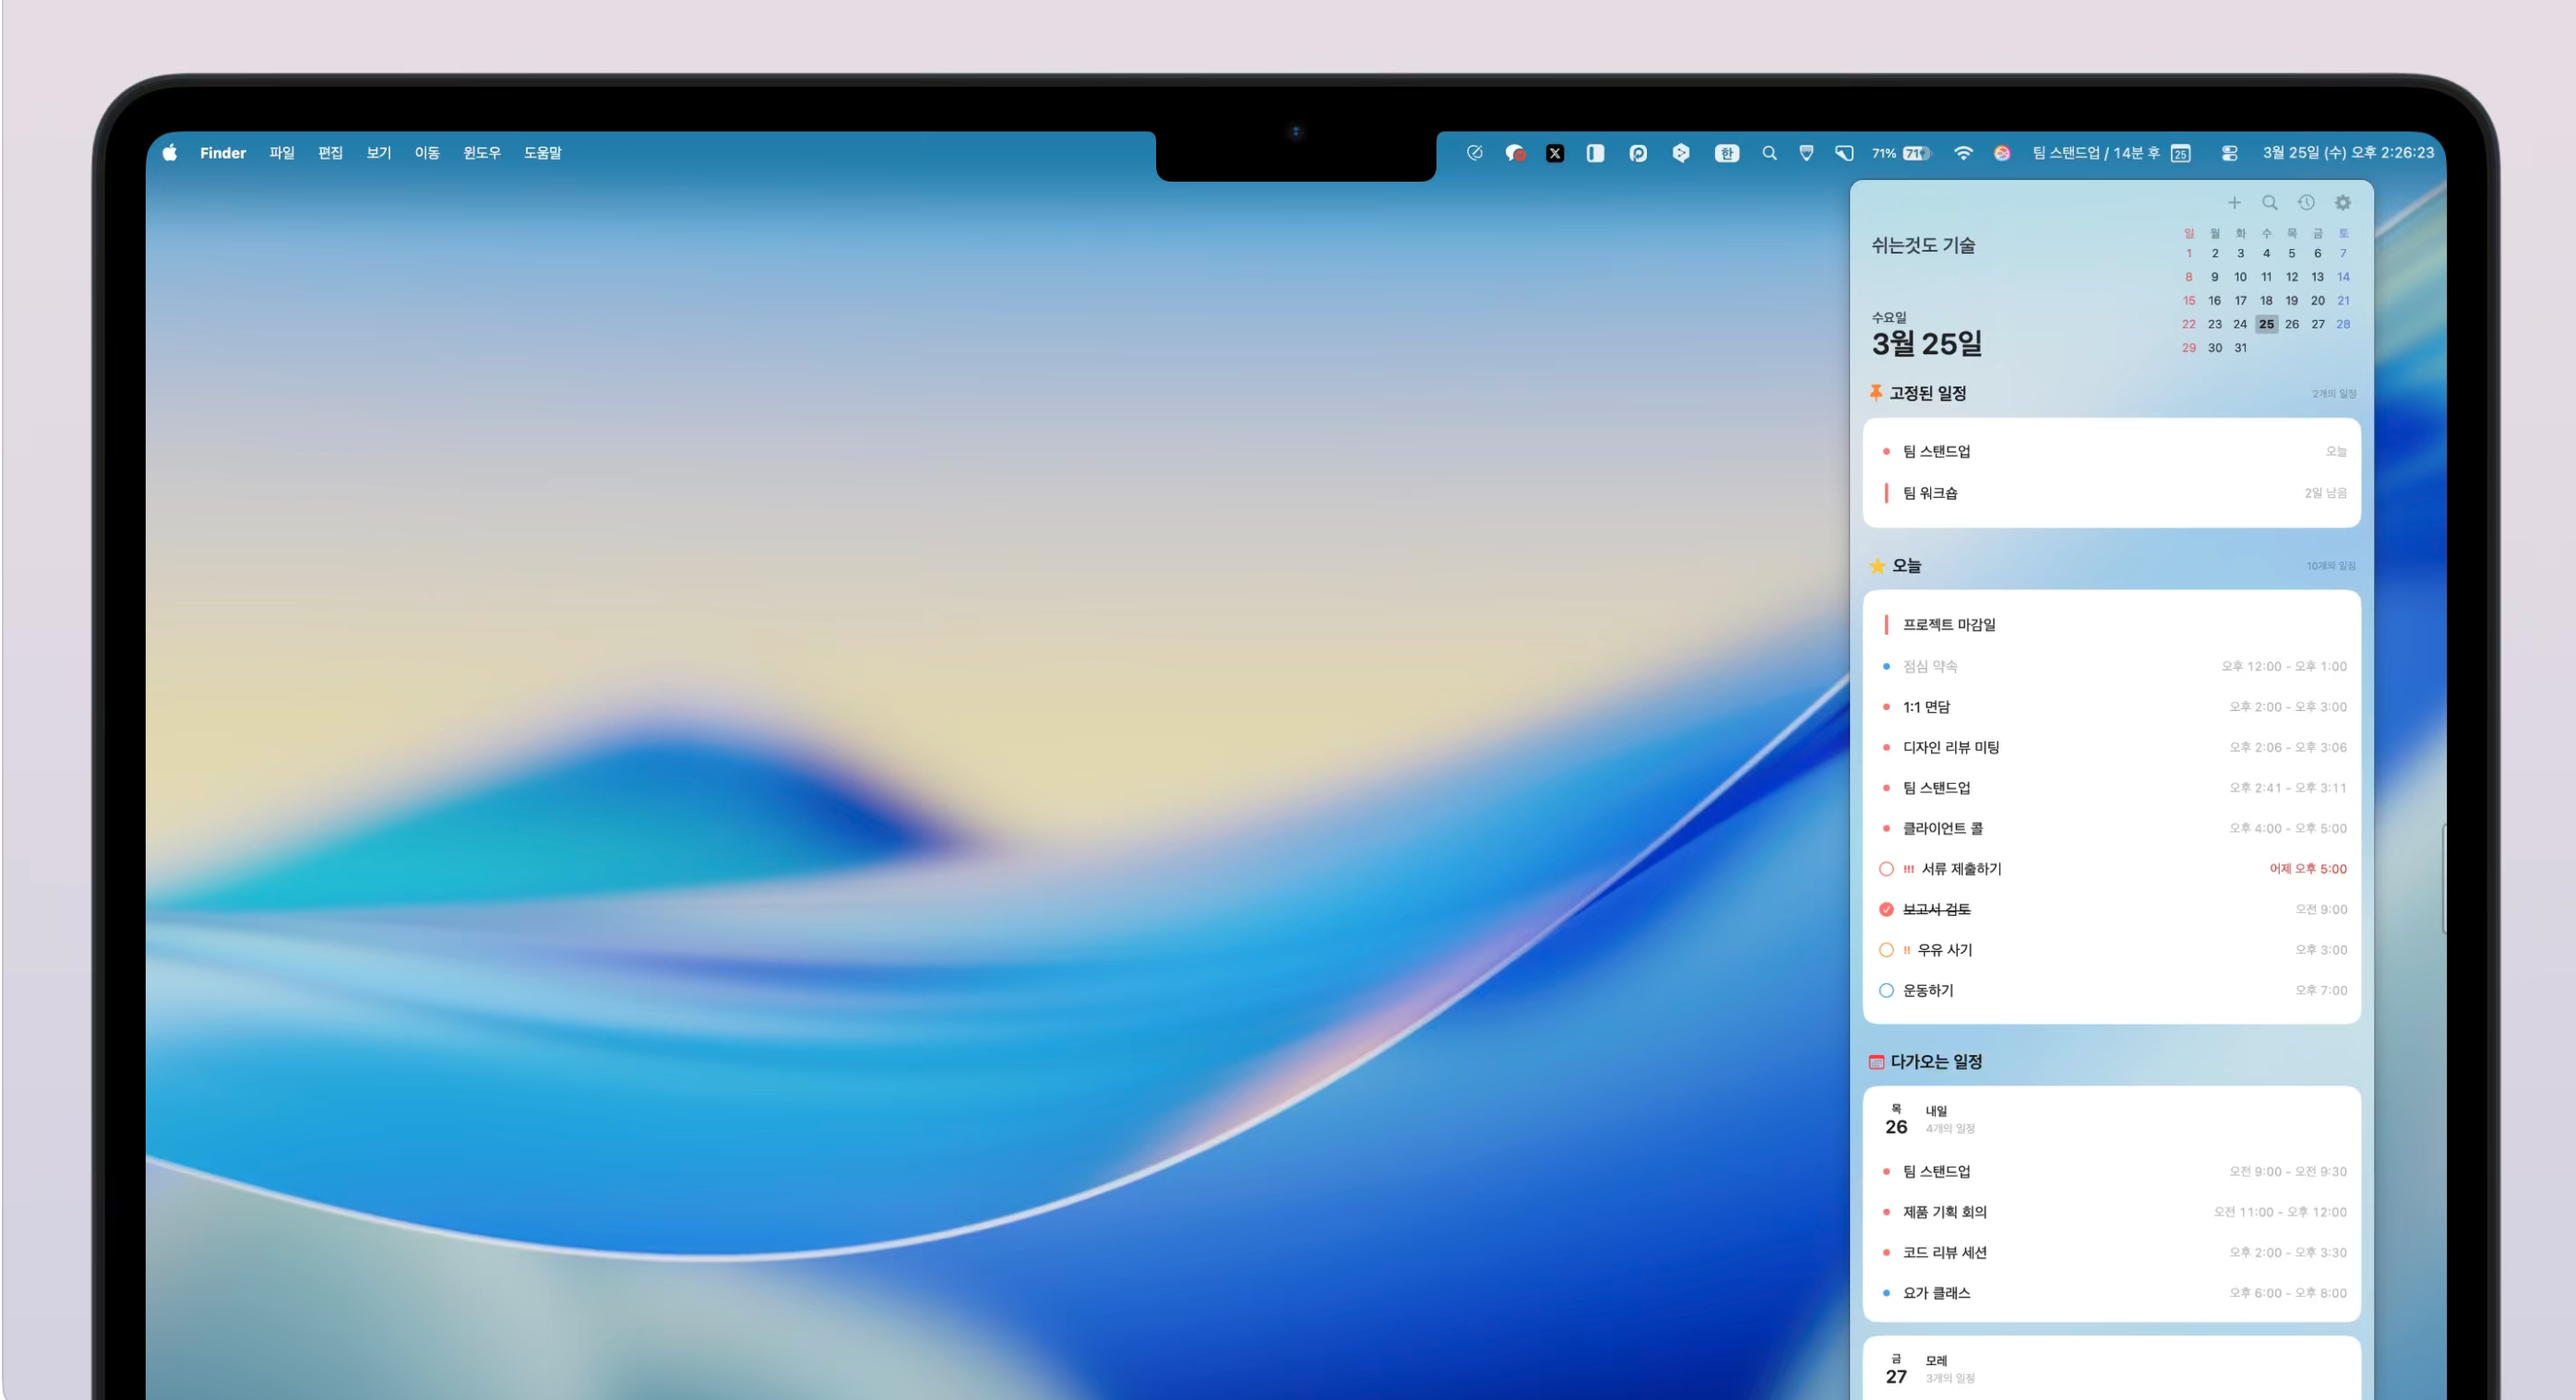
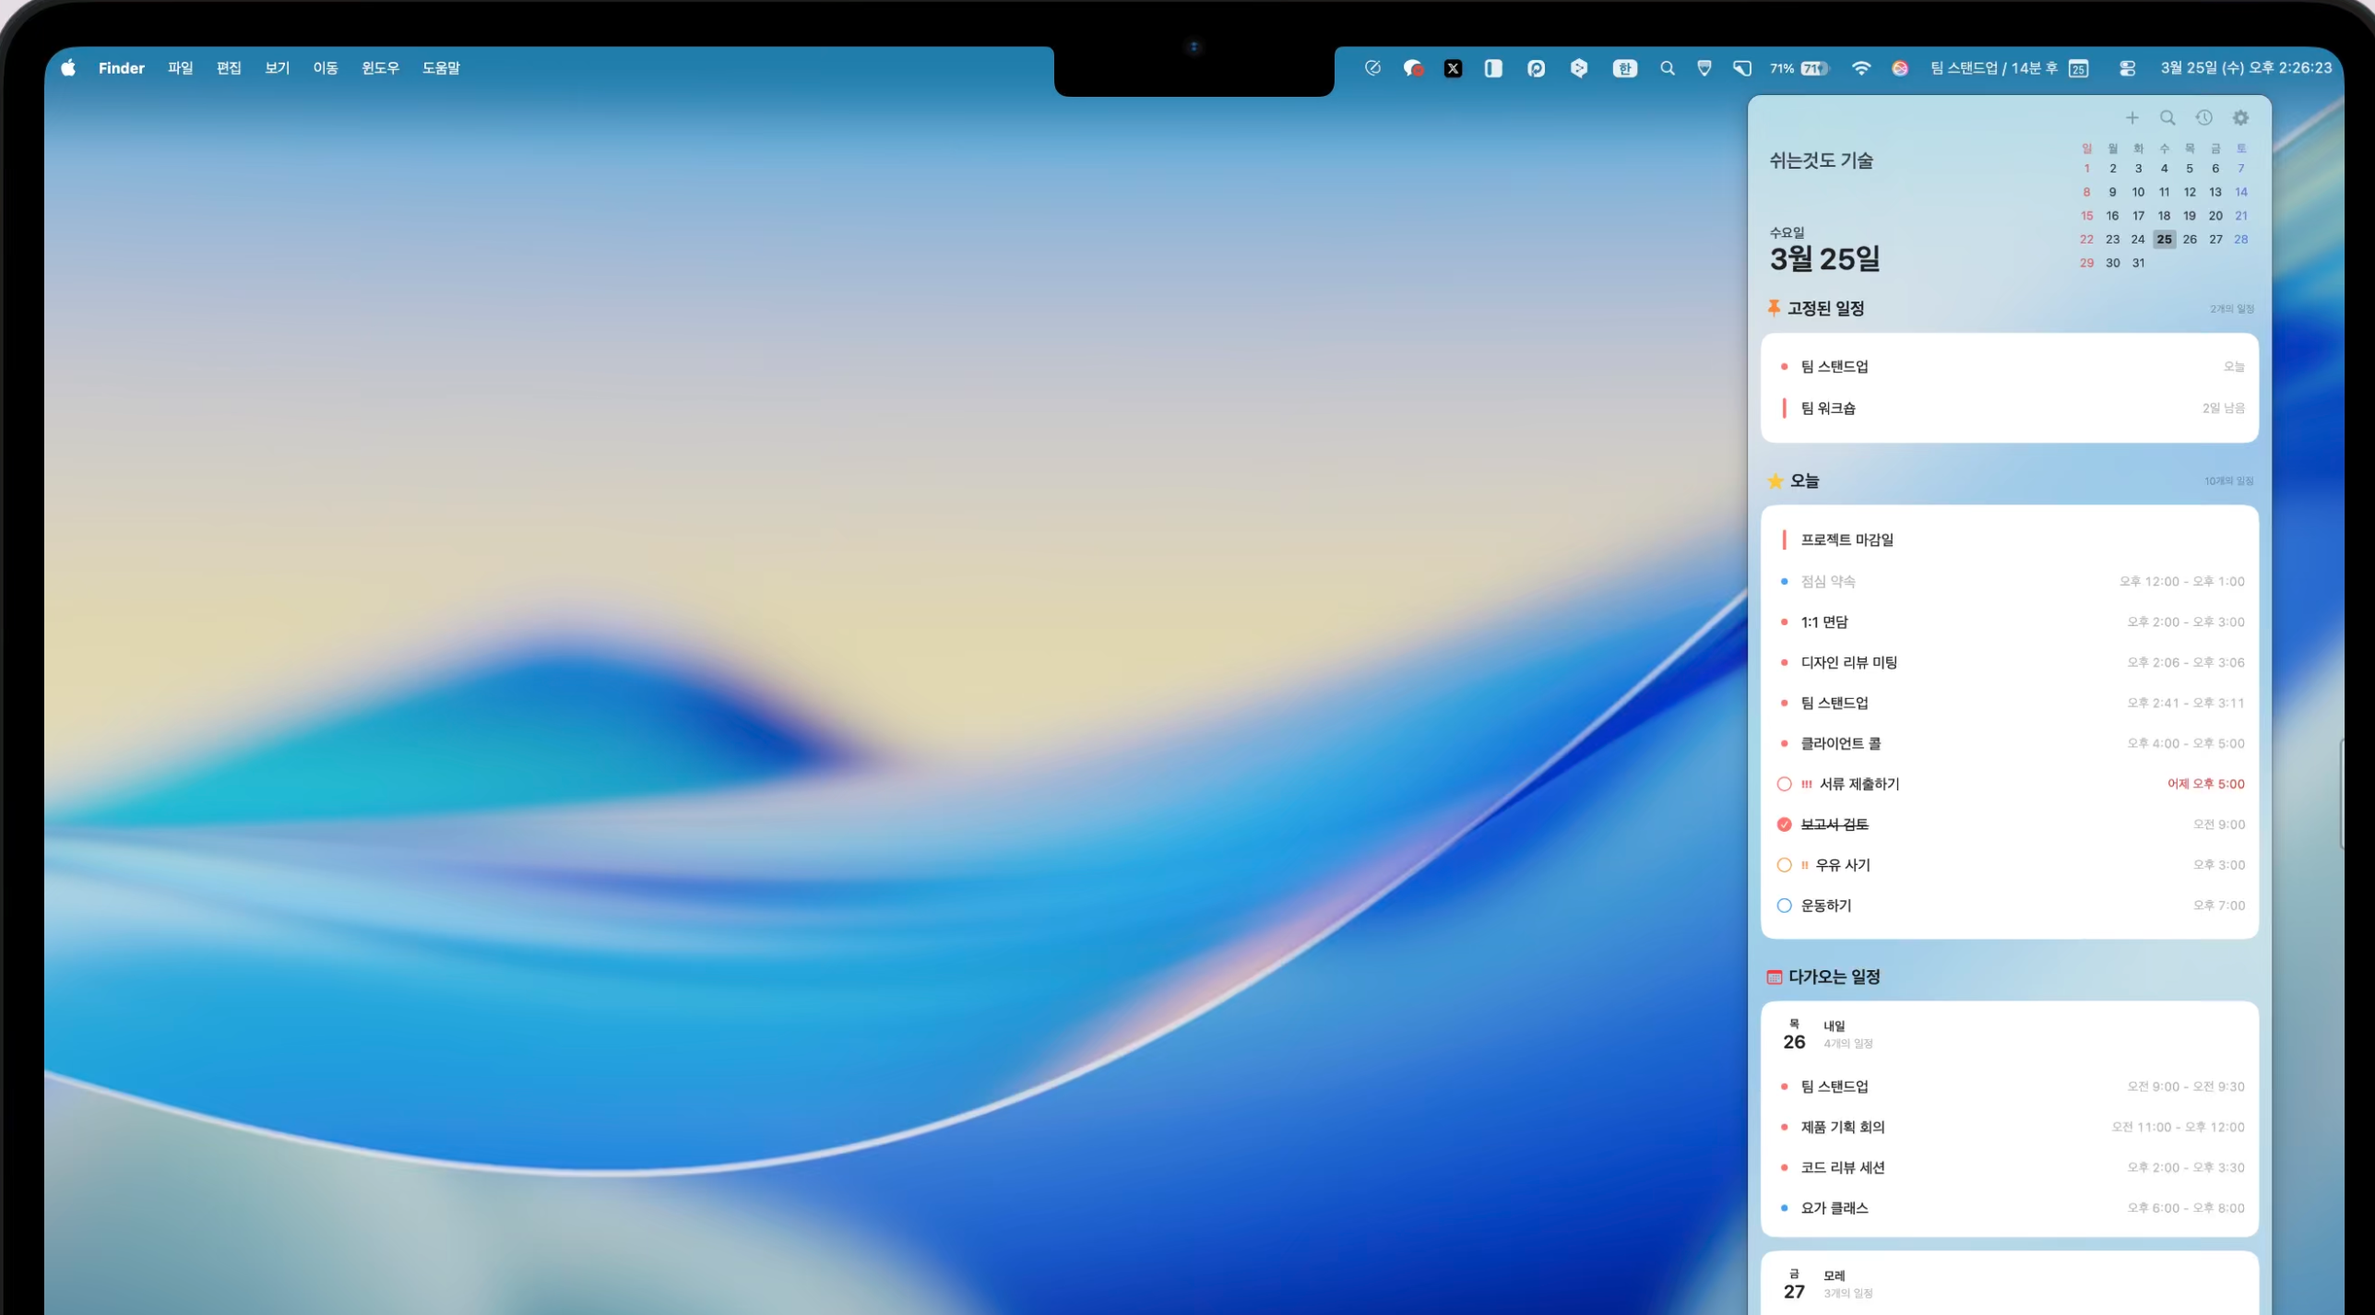
앱 스크린샷을 통일된 맥북 목업 프레임으로 + 분홍 배경 제거
- CSS .macbook 다크 베젤 프레임을 세 앱에 공통 적용(흰 배경, 분홍 없음)
- Peek: 라벤더 배경 포함 노트북 렌더에서 화면 글래스만 크롭(peek-en/ko)
- Spendy: 포스터에서 창만 크롭, 모서리 검정 채움으로 베젤과 블렌드
- Petals: 기존 창 캡처 그대로 프레임에 삽입
- 미사용 peek.jpg 제거

diff --git a/index.html b/index.html
@@ -47,12 +47,14 @@
       <h2>Face the money of a single day.</h2>
       <p class="app-desc">A budget app that opens to the input screen — recording comes before reviewing. A tag and a one-line note are enough. Even without an amount, it becomes a diary of the day.</p>
       <p class="app-links"><a href="https://apps.apple.com/us/app/spendy-budget-diary/id6443419421">Download on the App&nbsp;Store</a></p>
-      <img class="shot"
-           src="assets/spendy-en.png"
-           data-src-en="assets/spendy-en.png" data-src-ko="assets/spendy-ko.png"
-           data-alt-en="Spendy for Mac, with daily and tag totals in one window"
-           data-alt-ko="Mac용 Spendy — 한 창에서 날짜·태그별 합계를 한눈에"
-           alt="Spendy for Mac, with daily and tag totals in one window">
+      <div class="macbook">
+        <img class="shot"
+             src="assets/spendy-en.png"
+             data-src-en="assets/spendy-en.png" data-src-ko="assets/spendy-ko.png"
+             data-alt-en="Spendy for Mac, with daily and tag totals in one window"
+             data-alt-ko="Mac용 Spendy — 한 창에서 날짜·태그별 합계를 한눈에"
+             alt="Spendy for Mac, with daily and tag totals in one window">
+      </div>
     </section>
 
     <section class="app" id="peek">
@@ -64,12 +66,14 @@
         <span class="sep" aria-hidden="true">·</span>
         <a href="https://apps.apple.com/us/app/peek-up-next/id6760283607">Peek for&nbsp;iPhone</a>
       </p>
-      <img class="shot"
-           src="assets/peek.jpg"
-           data-src-en="assets/peek.jpg" data-src-ko="assets/peek-ko.png"
-           data-alt-en="Peek in the Mac menu bar showing the next event and time remaining"
-           data-alt-ko="Mac 메뉴 바의 Peek — 다음 일정과 남은 시간 표시"
-           alt="Peek in the Mac menu bar showing the next event and time remaining">
+      <div class="macbook">
+        <img class="shot"
+             src="assets/peek-en.png"
+             data-src-en="assets/peek-en.png" data-src-ko="assets/peek-ko.png"
+             data-alt-en="Peek in the Mac menu bar showing the next event and time remaining"
+             data-alt-ko="Mac 메뉴 바의 Peek — 다음 일정과 남은 시간 표시"
+             alt="Peek in the Mac menu bar showing the next event and time remaining">
+      </div>
     </section>
 
     <section class="app" id="petals">
@@ -77,12 +81,14 @@
       <h2>Face the whole year on one screen.</h2>
       <p class="app-desc">A macOS calendar that shows all twelve months in a single window. No scrolling. Place images, text, and stickers on top — your year, on one canvas.</p>
       <p class="app-links"><a href="https://itunes.apple.com/app/id6775719671">Download on the Mac App&nbsp;Store</a></p>
-      <img class="shot"
-           src="assets/petals-en.png"
-           data-src-en="assets/petals-en.png" data-src-ko="assets/petals-ko.png"
-           data-alt-en="Petals showing a full year of twelve months in one window"
-           data-alt-ko="Petals — 12개월 1년 전체를 한 창에 표시"
-           alt="Petals showing a full year of twelve months in one window">
+      <div class="macbook">
+        <img class="shot"
+             src="assets/petals-en.png"
+             data-src-en="assets/petals-en.png" data-src-ko="assets/petals-ko.png"
+             data-alt-en="Petals showing a full year of twelve months in one window"
+             data-alt-ko="Petals — 12개월 1년 전체를 한 창에 표시"
+             alt="Petals showing a full year of twelve months in one window">
+      </div>
     </section>
   </main>
 

diff --git a/style.css b/style.css
@@ -115,13 +115,20 @@ a:hover { text-decoration: underline; }
 .app-links .sep { color: var(--hairline); margin: 0 12px; }
 .coming-soon { margin-top: 28px; font-size: 17px; color: var(--muted); }
 
+.macbook {
+  max-width: min(880px, 100%);
+  margin: 64px auto 0;
+  background: #1a1a1c;
+  padding: 0.9%;
+  border-radius: 18px;
+  box-shadow: 0 30px 60px rgba(0, 0, 0, 0.18);
+}
 .shot {
   display: block;
-  max-width: min(900px, 100%);
+  width: 100%;
   height: auto;
-  margin: 64px auto 0;
-  border-radius: 18px;
-  box-shadow: 0 30px 60px rgba(0, 0, 0, 0.12);
+  margin: 0;
+  border-radius: 9px;
 }
 
 .site-footer {
